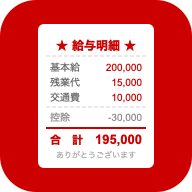
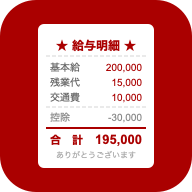
テーマカラーを#CC0000→#AA0000に暗く調整

diff --git a/index.html b/index.html
@@ -6,7 +6,7 @@
 <title>TimeKeeper</title>
 <!-- PWA -->
 <link rel="manifest" href="manifest.json">
-<meta name="theme-color" content="#CC0000">
+<meta name="theme-color" content="#AA0000">
 <meta name="apple-mobile-web-app-capable" content="yes">
 <meta name="apple-mobile-web-app-status-bar-style" content="black-translucent">
 <meta name="apple-mobile-web-app-title" content="TimeKeeper">
@@ -16,7 +16,7 @@
   body { font-family: -apple-system, BlinkMacSystemFont, "Hiragino Sans", sans-serif; background: #fdf0f0; color: #1a202c; min-height: 100vh; }
 
   header {
-    background: #CC0000;
+    background: #AA0000;
     color: white;
     padding: 16px 24px;
     display: flex;
@@ -124,7 +124,7 @@
   .shift-date-block {
     min-width: 52px;
     text-align: center;
-    background: #CC0000;
+    background: #AA0000;
     color: white;
     border-radius: 10px;
     padding: 6px 8px;
@@ -143,7 +143,7 @@
     color: #1a202c;
     margin-bottom: 4px;
   }
-  .shift-time-arrow { color: #CC0000; font-size: 13px; }
+  .shift-time-arrow { color: #AA0000; font-size: 13px; }
   .shift-meta-row {
     display: flex;
     gap: 8px;
@@ -185,7 +185,7 @@
     padding-right: 26px;
     text-align: center;
   }
-  .time-select:focus { border-color: #CC0000; box-shadow: 0 0 0 2px rgba(197,48,48,0.15); }
+  .time-select:focus { border-color: #AA0000; box-shadow: 0 0 0 2px rgba(197,48,48,0.15); }
 
   .badge {
     display: inline-block;
@@ -202,7 +202,7 @@
   /* ボタン */
   .btn-primary {
     padding: 10px 20px;
-    background: #CC0000;
+    background: #AA0000;
     color: white;
     border: none;
     border-radius: 8px;
@@ -211,7 +211,7 @@
     cursor: pointer;
     transition: background 0.15s;
   }
-  .btn-primary:hover { background: #880000; }
+  .btn-primary:hover { background: #660000; }
   .btn-sm {
     padding: 5px 10px;
     border-radius: 6px;
@@ -234,7 +234,7 @@
   .edit-row td { background: #fffff0 !important; }
   .time-input {
     padding: 4px 6px;
-    border: 1px solid #CC0000;
+    border: 1px solid #AA0000;
     border-radius: 6px;
     font-size: 13px;
     width: 80px;
@@ -243,7 +243,7 @@
   }
   .break-input {
     padding: 4px 6px;
-    border: 1px solid #CC0000;
+    border: 1px solid #AA0000;
     border-radius: 6px;
     font-size: 13px;
     width: 58px;
@@ -372,7 +372,7 @@
     margin-bottom: 16px;
   }
   .payslip-header {
-    background: #CC0000;
+    background: #AA0000;
     color: white;
     padding: 14px 20px;
     display: flex;
@@ -460,7 +460,7 @@
     border: 1px solid #fefcbf;
   }
   .cal-cell.cal-today {
-    outline: 2px solid #CC0000;
+    outline: 2px solid #AA0000;
     outline-offset: -1px;
   }
   .cal-cell.cal-other {
@@ -479,7 +479,7 @@
   .cal-cell.cal-sat .cal-num { color: #3182ce; }
   .cal-shift-label {
     font-size: 9px;
-    color: #CC0000;
+    color: #AA0000;
     font-weight: 600;
     line-height: 1.3;
     display: block;
@@ -518,12 +518,12 @@
   .leave-cell.remaining { background: #fff5f5; border: 1px solid #fed7d7; }
   .leave-progress { margin-top: 4px; }
   .leave-progress-bar { height: 10px; background: #e2e8f0; border-radius: 5px; overflow: hidden; margin: 6px 0; }
-  .leave-progress-fill { height: 100%; border-radius: 5px; background: #CC0000; transition: width 0.4s; }
+  .leave-progress-fill { height: 100%; border-radius: 5px; background: #AA0000; transition: width 0.4s; }
   .leave-grant-list { margin-top: 12px; }
   .leave-grant-item { display: flex; align-items: center; gap: 10px; padding: 8px 0; border-bottom: 1px solid #f0f4f8; font-size: 13px; }
   .leave-grant-item:last-child { border-bottom: none; }
   .leave-grant-dot { width: 8px; height: 8px; border-radius: 50%; flex-shrink: 0; }
-  .leave-grant-dot.done    { background: #CC0000; }
+  .leave-grant-dot.done    { background: #AA0000; }
   .leave-grant-dot.future  { background: #e2e8f0; }
 
   /* トースト */
@@ -531,7 +531,7 @@
     position: fixed;
     bottom: 24px;
     right: 16px;
-    background: #CC0000;
+    background: #AA0000;
     color: white;
     padding: 12px 18px;
     border-radius: 8px;
@@ -750,7 +750,7 @@
         <div class="cal-legend-box" style="background:#fffff0;border:1px solid #fefcbf"></div>シフトのみ
       </div>
       <div class="cal-legend-item">
-        <div class="cal-legend-box" style="outline:2px solid #CC0000;background:#fff"></div>今日
+        <div class="cal-legend-box" style="outline:2px solid #AA0000;background:#fff"></div>今日
       </div>
     </div>
   </div>
@@ -790,7 +790,7 @@
   <div class="bar-chart">
     <h3>月別勤務時間グラフ</h3>
     <div class="bar-legend">
-      <div class="legend-item"><div class="legend-dot" style="background:#CC0000"></div>実労働</div>
+      <div class="legend-item"><div class="legend-dot" style="background:#AA0000"></div>実労働</div>
       <div class="legend-item"><div class="legend-dot" style="background:#e2e8f0;border:1px solid #cbd5e0"></div>予定</div>
     </div>
     <div id="annual-chart"></div>
@@ -886,7 +886,7 @@
         <div style="display:flex;gap:8px;flex-wrap:wrap;align-items:center">
           <button onclick="syncNow()" style="padding:8px 16px;background:#f0fff4;border:1px solid #9ae6b4;color:#276749;border-radius:8px;font-size:13px;font-weight:600;cursor:pointer">⬇ 今すぐ同期</button>
           <button onclick="showShareCode()" style="padding:8px 16px;background:#fff5f5;border:1px solid #fc8181;color:#1a202c;border-radius:8px;font-size:13px;font-weight:600;cursor:pointer">📋 共有コードを表示</button>
-          <button onclick="resetSync()" style="padding:8px 16px;background:#fff5f5;border:1px solid #fc8181;color:#CC0000;border-radius:8px;font-size:13px;font-weight:600;cursor:pointer">🗑 解除</button>
+          <button onclick="resetSync()" style="padding:8px 16px;background:#fff5f5;border:1px solid #fc8181;color:#AA0000;border-radius:8px;font-size:13px;font-weight:600;cursor:pointer">🗑 解除</button>
         </div>
         <div id="sync-status" style="font-size:12px;color:#718096;display:flex;align-items:center"></div>
         <!-- 共有コード表示エリア -->
@@ -899,14 +899,14 @@
           </div>
           <div style="display:flex;gap:6px;align-items:center">
             <code id="share-code-text" style="flex:1;background:#fef3c7;padding:6px 8px;border-radius:6px;word-break:break-all;font-size:11px"></code>
-            <button onclick="copyShareCode()" style="padding:6px 12px;background:#CC0000;color:white;border:none;border-radius:6px;font-size:13px;font-weight:700;cursor:pointer">コピー</button>
+            <button onclick="copyShareCode()" style="padding:6px 12px;background:#AA0000;color:white;border:none;border-radius:6px;font-size:13px;font-weight:700;cursor:pointer">コピー</button>
           </div>
         </div>
       </div>
 
       <!-- 共有コードで接続（スマホ用） -->
       <details style="font-size:13px">
-        <summary style="cursor:pointer;color:#CC0000;font-weight:700">📲 スマホ用：共有コードで接続する</summary>
+        <summary style="cursor:pointer;color:#AA0000;font-weight:700">📲 スマホ用：共有コードで接続する</summary>
         <div style="margin-top:8px;background:#fff5f5;border-radius:8px;padding:10px;font-size:12px;color:#4a5568;line-height:1.7">
           PCで表示した共有コードをここに貼り付けてください
         </div>
@@ -1338,10 +1338,10 @@ function renderAutoBackupList() {
     const isToday = date === todayStr();
     return `<div style="display:flex;align-items:center;justify-content:space-between;padding:8px 10px;background:#f7fafc;border-radius:8px;border:1px solid #e2e8f0">
       <div>
-        <span style="font-size:13px;font-weight:600;color:#1a202c">${date}${isToday ? ' <span style="font-size:10px;color:#CC0000">今日</span>' : ''}</span>
+        <span style="font-size:13px;font-weight:600;color:#1a202c">${date}${isToday ? ' <span style="font-size:10px;color:#AA0000">今日</span>' : ''}</span>
         <span style="font-size:11px;color:#718096;margin-left:8px">${count}件のデータ</span>
       </div>
-      <button onclick="restoreAutoBackup('${k}')" style="padding:5px 12px;background:#fff0f0;border:1px solid #fc8181;color:#CC0000;border-radius:6px;font-size:12px;font-weight:600;cursor:pointer">復元</button>
+      <button onclick="restoreAutoBackup('${k}')" style="padding:5px 12px;background:#fff0f0;border:1px solid #fc8181;color:#AA0000;border-radius:6px;font-size:12px;font-weight:600;cursor:pointer">復元</button>
     </div>`;
   }).join('');
 }
@@ -1927,7 +1927,7 @@ function renderLeave() {
         return `<div class="leave-grant-item">
           <div class="leave-grant-dot ${g.isPast ? 'done' : 'future'}"></div>
           <span style="flex:1;color:${g.isPast ? '#1a202c' : '#a0aec0'}">${label}</span>
-          <span style="font-size:11px;color:${g.isPast ? '#CC0000' : '#cbd5e0'}">${g.isPast ? '付与済み' : '予定'}</span>
+          <span style="font-size:11px;color:${g.isPast ? '#AA0000' : '#cbd5e0'}">${g.isPast ? '付与済み' : '予定'}</span>
         </div>`;
       }).join('')}
     </div>
@@ -2336,7 +2336,7 @@ function renderSummary() {
     const [dy, dm, dd] = date.split('-');
     const dow = ['日','月','火','水','木','金','土'][new Date(date).getDay()];
     const diffStr = diff === 0 ? '-' :
-      `<span style="color:${diff>0?'#276749':'#CC0000'};font-weight:600">${diff>0?'+':''}${minutesToHM(diff)}</span>`;
+      `<span style="color:${diff>0?'#276749':'#AA0000'};font-weight:600">${diff>0?'+':''}${minutesToHM(diff)}</span>`;
     const wage = calcWage(actualMins, date.substring(0, 7));
     const transport = (hasTransport && p && actualMins > 0) ? DB.transportFee : null;
     html += `<tr>
@@ -2482,7 +2482,7 @@ function renderAnnual() {
     const diff = actualMins - plannedMins;
     const diffStr = (actualMins === 0 && plannedMins === 0) ? '-' :
       diff === 0 ? '±0:00' :
-      `<span style="color:${diff>0?'#276749':'#CC0000'};font-weight:600">${diff>0?'+':''}${minutesToHM(diff)}</span>`;
+      `<span style="color:${diff>0?'#276749':'#AA0000'};font-weight:600">${diff>0?'+':''}${minutesToHM(diff)}</span>`;
     const wage = calcMonthWage(mym);
     const transport = hasTransport ? DB.transportFee * workedDays : null;
     html += `<tr>
@@ -2497,7 +2497,7 @@ function renderAnnual() {
   }
   const totalDiff = totalActual - totalPlanned;
   const totalDiffStr = totalDiff === 0 ? '±0:00' :
-    `<span style="color:${totalDiff>0?'#276749':'#CC0000'};font-weight:600">${totalDiff>0?'+':''}${minutesToHM(totalDiff)}</span>`;
+    `<span style="color:${totalDiff>0?'#276749':'#AA0000'};font-weight:600">${totalDiff>0?'+':''}${minutesToHM(totalDiff)}</span>`;
   html += `<tr style="font-weight:700;background:#f7fafc">
     <td>合計</td>
     <td>${minutesToHM(totalActual)}</td>
